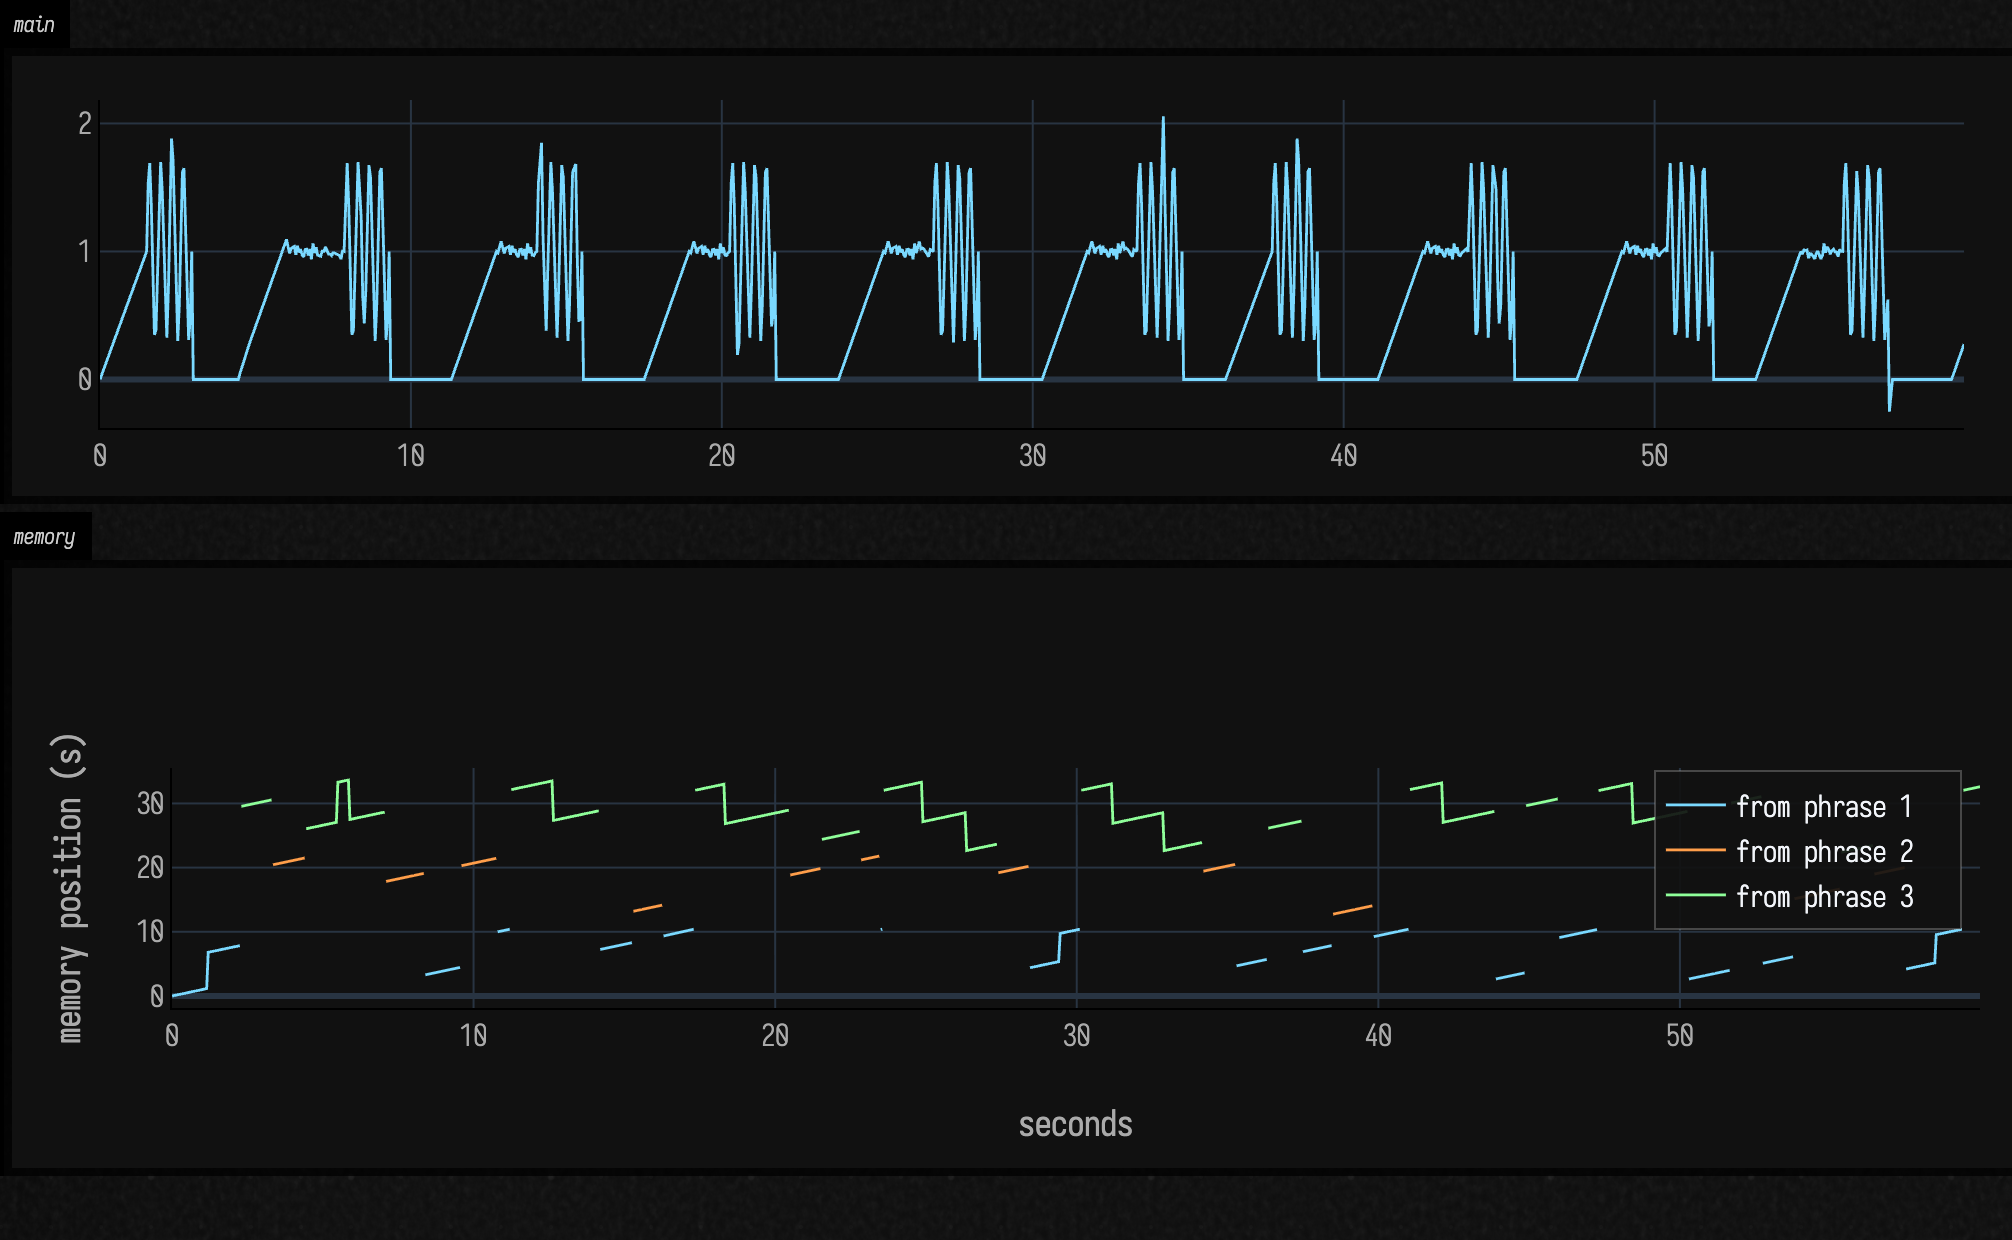
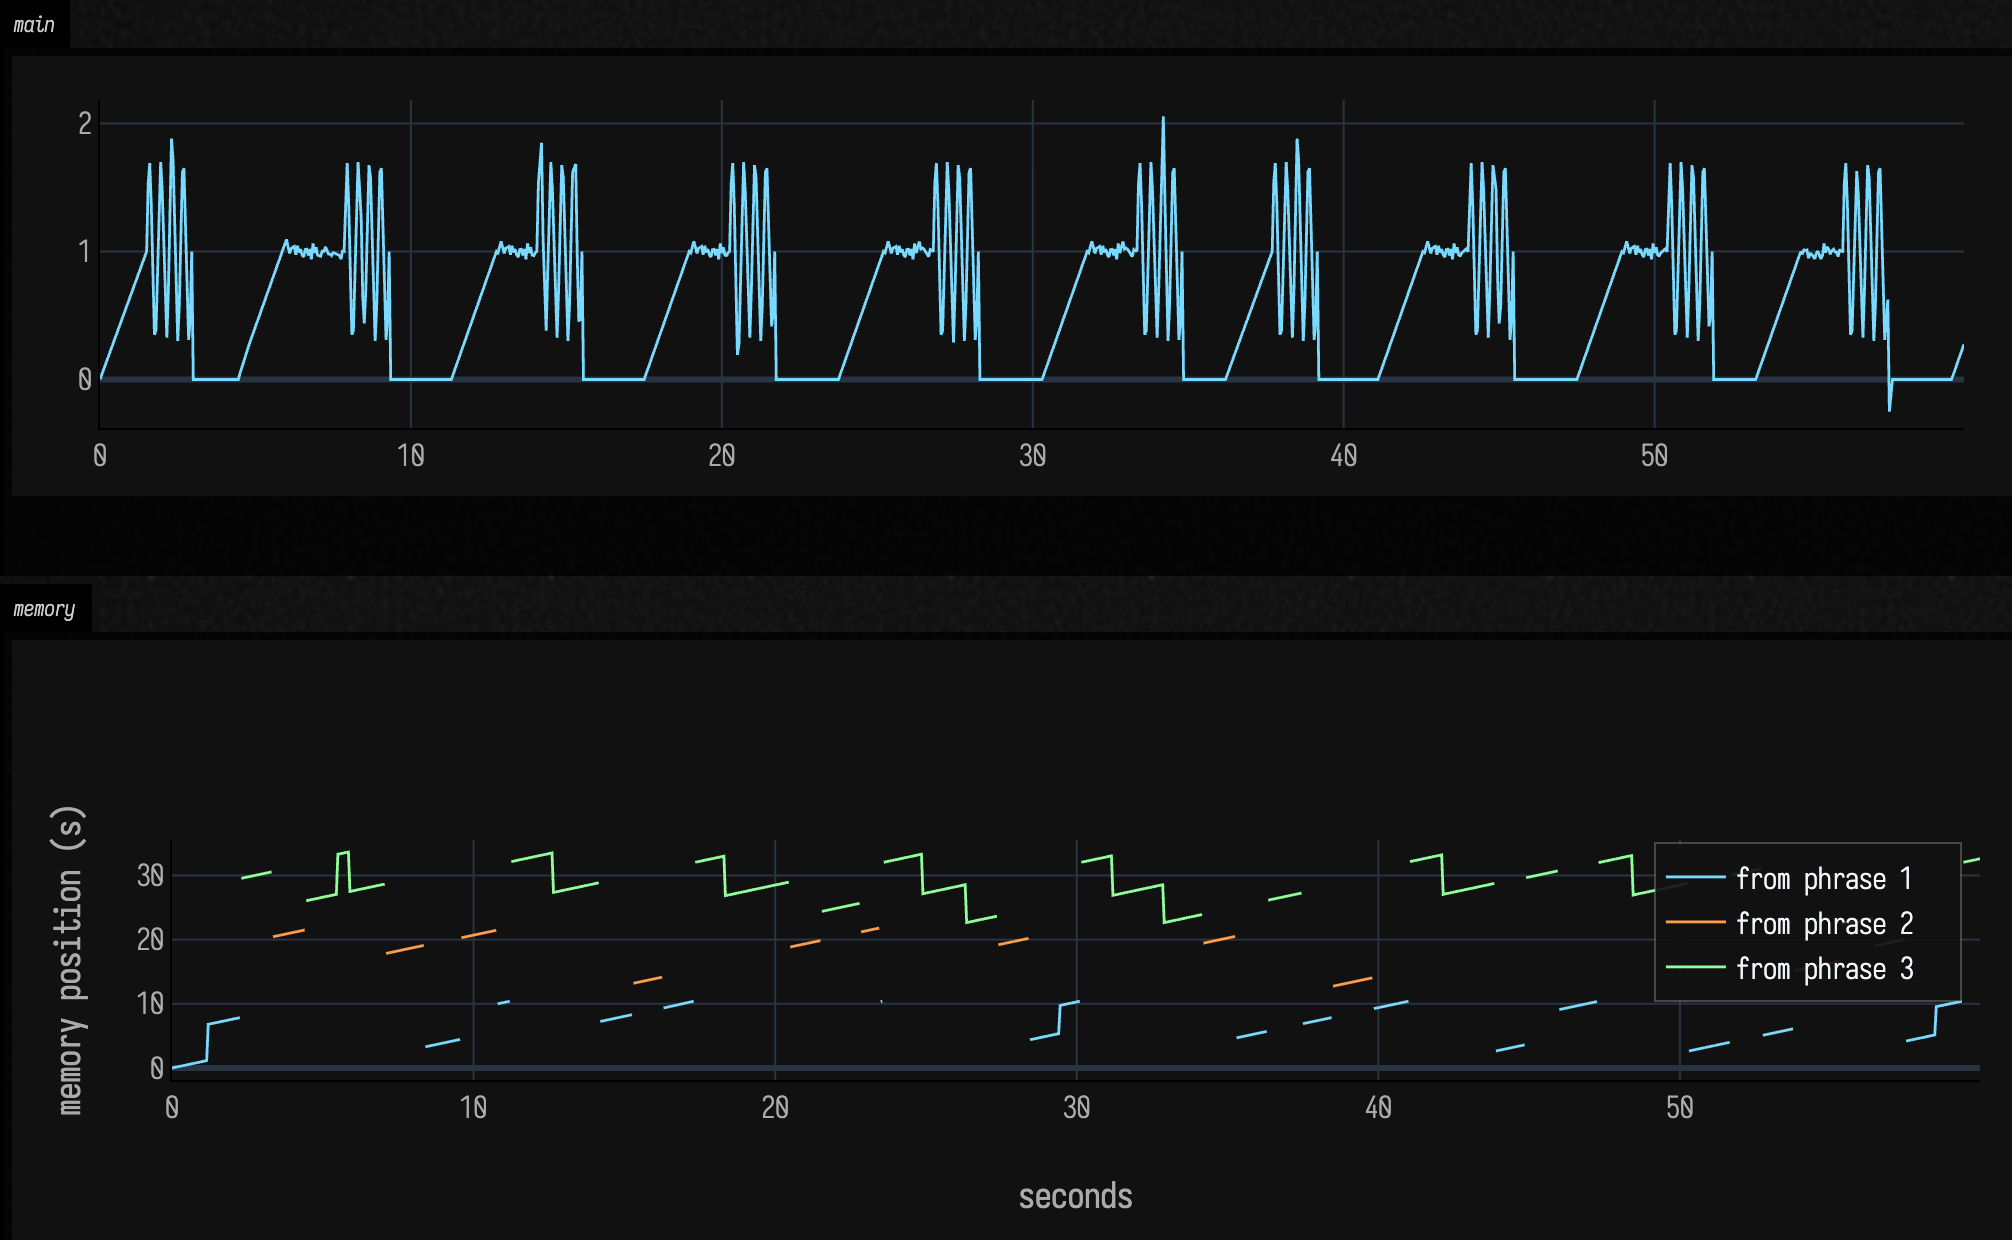
temporal_memory: show the played signals in the hybrid figure; say they loop at the gesture level

diff --git a/public/docs/assets/agent_transcripts/temporal_memory/tm_judged_code_.kt b/public/docs/assets/agent_transcripts/temporal_memory/tm_judged_code_.kt
@@ -35,8 +35,15 @@ markdown("table", "| three minutes of the phrases | reuse | coverage | join roug
         "| $name | %.2f | %.2f | %.2f | %d |".format(p.reuse(), p.coverage(demo.length), p.joinRoughness(demo), p.segments.size - 1)
     })
 
-// where in memory the first minute was played from, for the plain oracle and the judged one
-val minute = (60 * rate).toInt()
-showSignals(*["oracle alone", "Timestral prefers, reuseWeight 6"].map { name -> name to runs.getValue(name).sourceSeconds().take(minute) }.toTypedArray(),
-    x = List(minute) { it / rate }, xTitle = "seconds", yTitle = "memory position (s)",
-    channel = "main", width = 1000, height = 360)
+// what the plain oracle and the judged one actually played, the first half minute of each
+val shown = (30 * rate).toInt()
+val compared = ["oracle alone", "Timestral prefers, reuseWeight 6"]
+for (name in compared) {
+    showSignals(name to runs.getValue(name).output.values[0].take(shown), x = List(shown) { it / rate },
+        channel = name, width = 1000, height = 180)
+}
+
+// and where in memory each was playing from over the same half minute
+showSignals(*compared.map { name -> name to runs.getValue(name).sourceSeconds().take(shown) }.toTypedArray(),
+    x = List(shown) { it / rate }, xTitle = "seconds", yTitle = "memory position (s)",
+    channel = "main", width = 1000, height = 300)

diff --git a/public/docs/assets/agent_transcripts/temporal_memory/tm_notebook_code_.kt b/public/docs/assets/agent_transcripts/temporal_memory/tm_notebook_code_.kt
@@ -48,6 +48,13 @@ vary much more than oracle-only ones (0.26 / 0.93 / 0.87 here vs 0.25 / 0.98 / 0
 What does hold every time: the judge makes joins smoother and costs variety on phrase
 material. Next experiment should be several seeds × lengths per setting, not one run.
 
+**Then Marc asked to see the played signal, not just memory position.** Both the plain and the
+judged oracle play rise → hesitation → burst → pause about every 6 s, near-identically. The
+memory trace looked varied only because the takes are copies of the same four gestures.
+`reuse` counts source positions, so a loop made of copies passes it. Two consequences: we need
+an output-side repetition measure (matrix profile / autocorrelation of the performance), and
+this fixture is too poor to say anything about recombination. Next: takes that really differ.
+
 ## Open
 
 - A measure of "better dynamics" that is neither the judge's own score nor a statistic the oracle

diff --git a/public/docs/assets/agent_transcripts/temporal_memory/document.md b/public/docs/assets/agent_transcripts/temporal_memory/document.md
@@ -11,7 +11,7 @@ This is a machine-readable narrative mirror of `metadata.edn`. The canonical sto
 <!-- field-box id="tm_judged" index="0" -->
 
 ```edn [field-box id="tm_judged" role="properties"]
[2 lines of base64/hex data omitted]
 ```
 
 ```kotlin [field-property box="tm_judged" name="code" path="tm_judged_code_.kt"]
@@ -52,11 +52,18 @@ markdown("table", "| three minutes of the phrases | reuse | coverage | join roug
         "| $name | %.2f | %.2f | %.2f | %d |".format(p.reuse(), p.coverage(demo.length), p.joinRoughness(demo), p.segments.size - 1)
     })
 
-// where in memory the first minute was played from, for the plain oracle and the judged one
-val minute = (60 * rate).toInt()
-showSignals(*["oracle alone", "Timestral prefers, reuseWeight 6"].map { name -> name to runs.getValue(name).sourceSeconds().take(minute) }.toTypedArray(),
-    x = List(minute) { it / rate }, xTitle = "seconds", yTitle = "memory position (s)",
-    channel = "main", width = 1000, height = 360)
+// what the plain oracle and the judged one actually played, the first half minute of each
+val shown = (30 * rate).toInt()
+val compared = ["oracle alone", "Timestral prefers, reuseWeight 6"]
+for (name in compared) {
+    showSignals(name to runs.getValue(name).output.values[0].take(shown), x = List(shown) { it / rate },
+        channel = name, width = 1000, height = 180)
+}
+
+// and where in memory each was playing from over the same half minute
+showSignals(*compared.map { name -> name to runs.getValue(name).sourceSeconds().take(shown) }.toTypedArray(),
+    x = List(shown) { it / rate }, xTitle = "seconds", yTitle = "memory position (s)",
+    channel = "main", width = 1000, height = 300)
 ```
 
 ## 2. 3 - take over a channel, live
@@ -223,7 +230,7 @@ showSignals(*byTake.toTypedArray(), x = seconds, xTitle = "seconds", yTitle = "m
 <!-- field-box id="tm_notebook" index="5" -->
 
 ```edn [field-box id="tm_notebook" role="properties"]
[2 lines of base64/hex data omitted]
 ```
 
 ```kotlin [field-property box="tm_notebook" name="code" path="tm_notebook_code_.kt"]
@@ -276,6 +283,13 @@ So the "reuse penalty cancels the pull" result does not hold up across lengths: 
 vary much more than oracle-only ones (0.26 / 0.93 / 0.87 here vs 0.25 / 0.98 / 0.89).
 What does hold every time: the judge makes joins smoother and costs variety on phrase
 material. Next experiment should be several seeds × lengths per setting, not one run.
+
+**Then Marc asked to see the played signal, not just memory position.** Both the plain and the
+judged oracle play rise → hesitation → burst → pause about every 6 s, near-identically. The
+memory trace looked varied only because the takes are copies of the same four gestures.
+`reuse` counts source positions, so a loop made of copies passes it. Two consequences: we need
+an output-side repetition measure (matrix profile / autocorrelation of the performance), and
+this fixture is too poor to say anything about recombination. Next: takes that really differ.
 
 ## Open
 

diff --git a/public/docs/temporal_memory.md b/public/docs/temporal_memory.md
@@ -436,7 +436,7 @@ recording on average).
 The box below plays the three phrases for three minutes, four ways, from the same seed, and prints
 those measures for each.
 
-```diffstatic_runner {data-lang=kotlin screenshot="assets/temporal_memory/judged.png" alt="a table of reuse, coverage, join roughness and jump count for four ways of playing the phrases, above a plot of where in memory the first minute was played from by the plain oracle and by the oracle judged by Timestral" wait-output=true wait-output-kind=display wait-output-channel="main" capture="box" open-outputs="true" padding="0" name="tm-judged"}
+```diffstatic_runner {data-lang=kotlin screenshot="assets/temporal_memory/judged.png" alt="a table of reuse, coverage, join roughness and jump count for four ways of playing the phrases; below it, half a minute of what the plain oracle and the Timestral-judged oracle actually played, one plot each, and a plot of where in memory each was playing from" wait-output=true wait-output-kind=display wait-output-channel="main" capture="box" open-outputs="true" padding="0" name="tm-judged"}
 :::static
 import afield.math.oracle.*
 import afield.math.temporal.*
@@ -475,14 +475,29 @@ markdown("table", "| three minutes of the phrases | reuse | coverage | join roug
         "| $name | %.2f | %.2f | %.2f | %d |".format(p.reuse(), p.coverage(demo.length), p.joinRoughness(demo), p.segments.size - 1)
     })
 
-// where in memory the first minute was played from, for the plain oracle and the judged one
-val minute = (60 * rate).toInt()
-showSignals(*["oracle alone", "Timestral prefers, reuseWeight 6"].map { name -> name to runs.getValue(name).sourceSeconds().take(minute) }.toTypedArray(),
-    x = List(minute) { it / rate }, xTitle = "seconds", yTitle = "memory position (s)",
-    channel = "main", width = 1000, height = 360)
+// what the plain oracle and the judged one actually played, the first half minute of each
+val shown = (30 * rate).toInt()
+val compared = ["oracle alone", "Timestral prefers, reuseWeight 6"]
+for (name in compared) {
+    showSignals(name to runs.getValue(name).output.values[0].take(shown), x = List(shown) { it / rate },
+        channel = name, width = 1000, height = 180)
+}
+
+// and where in memory each was playing from over the same half minute
+showSignals(*compared.map { name -> name to runs.getValue(name).sourceSeconds().take(shown) }.toTypedArray(),
+    x = List(shown) { it / rate }, xTitle = "seconds", yTitle = "memory position (s)",
+    channel = "main", width = 1000, height = 300)
 ```
 
-![a table comparing four ways of playing the phrases, above two memory-position traces](assets/temporal_memory/judged.png)
+![a table comparing four ways of playing the phrases, the two played signals, and their memory positions](assets/temporal_memory/judged.png)
+
+Look at the played signals before the numbers. Both settle into the same cycle (rise, hesitation,
+burst, pause) every six seconds or so, though their memory positions jump all over the recording.
+The three takes are made of identical copies of four gestures, so a jump to another take usually
+lands on another copy of the same gesture. `reuse()` and `coverage()` count *where in memory*
+samples come from, so they cannot see a loop made of copies. Check the output itself, by eye or
+with [the matrix profile](matrix_profile.md) of the performance, and record takes that genuinely
+differ: that matters more to the result than any setting below.
 
 The judge makes the joins smoother, and it costs variety. A judge favours whatever the forecaster
 finds most predictable, and in a recording made of phrases that is usually more of what just

diff --git a/dev_docs/TEMPORAL_MEMORY_EXPERIMENTS.md b/dev_docs/TEMPORAL_MEMORY_EXPERIMENTS.md
@@ -162,3 +162,11 @@ that the judge makes joins smoother and costs variety on phrase material, and th
 
 The next step should be a grid of seeds × lengths per setting, reporting means and spreads, before
 any recommendation stronger than "try reuseWeight first".
+
+## Correction: the phrase performances loop at the gesture level
+
+Plotting the played signal (prompted by Marc) shows both the oracle and the judged oracle cycling
+through rise → hesitation → burst → pause about every 6 s. The phrase fixture's takes are copies of
+the same four gestures, so source-position measures (`reuse`, `coverage`) report variety that
+the output does not have. Every phrase-fixture conclusion above about "repetition" is about source
+positions only. Needed: an output-side repetition measure, and takes that genuinely differ.
